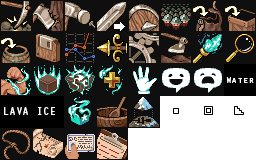
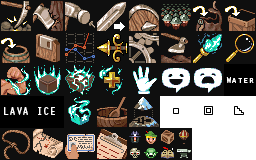
fix balloon port

Changed region(s): [[0.5, 0.7812, 0.75, 1.0]]

diff --git a/DwarfCorp/DwarfCorpXNA/World/Diplomacy.cs b/DwarfCorp/DwarfCorpXNA/World/Diplomacy.cs
@@ -329,17 +329,9 @@ namespace DwarfCorp
                     });
                 }
 
-                    foreach (CreatureAI creature in envoy.Creatures)
-                    {
-                       creature.Physics.AddChild(new ResourcePack(World.ComponentManager));
-                        if (natives.Economy == null)
-                        {
-                            natives.Economy = new Economy(natives, 1000.0m, World, new CompanyInformation()
-                            {
-                                Name = natives.Name
-                            });
-                        }
-
+                foreach (CreatureAI creature in envoy.Creatures)
+                {
+                    creature.Physics.AddChild(new ResourcePack(World.ComponentManager));
                     creature.Physics.AddChild(new Flag(World.ComponentManager, Vector3.Up * 0.5f + Vector3.Backward * 0.25f, natives.Economy.Company.Information));
                 }
             }
@@ -347,12 +339,30 @@ namespace DwarfCorp
             {
                 Body balloon = world.PlayerFaction.DispatchBalloon();
 
-                foreach (CreatureAI creature in creatures)
+                if (balloon != null)
                 {
-                    Matrix tf = creature.Physics.LocalTransform;
-                    tf.Translation = balloon.LocalTransform.Translation;
-                    creature.Physics.LocalTransform = tf;
+                    foreach (CreatureAI creature in creatures)
+                    {
+                        Matrix tf = creature.Physics.LocalTransform;
+                        tf.Translation = balloon.LocalTransform.Translation;
+                        creature.Physics.LocalTransform = tf;
+                    }
                 }
+                else
+                {
+                    if (natives.Economy == null)
+                    {
+                        natives.Economy = new Economy(natives, 1000.0m, World, new CompanyInformation()
+                        {
+                            Name = natives.Name
+                        });
+                    }
+
+                    foreach (CreatureAI creature in envoy.Creatures)
+                    {
+                        creature.Physics.AddChild(new ResourcePack(World.ComponentManager));
+                        creature.Physics.AddChild(new Flag(World.ComponentManager, Vector3.Up * 0.5f + Vector3.Backward * 0.25f, natives.Economy.Company.Information));
+                    }
             }
 
             foreach (CreatureAI creature in envoy.Creatures)

diff --git a/DwarfCorp/DwarfCorpXNA/GameStates/PlayState.cs b/DwarfCorp/DwarfCorpXNA/GameStates/PlayState.cs
@@ -828,11 +828,11 @@ namespace DwarfCorp.GameStates
 
                             new FramedIcon
                             {
-                               Icon = null,
+                               Icon  = new Gui.TileReference("tool-icons", 17),
                                Text = "@play-marks-icon-label",
                                Tooltip = "@play-marks-icon-tooltip",
                                TextHorizontalAlign = HorizontalAlign.Center,
-                               TextVerticalAlign = VerticalAlign.Center,
+                               TextVerticalAlign = VerticalAlign.Below,
                                EnabledTextColor = Vector4.One,
                                OnClick = (sender, args) =>
                                {
@@ -874,7 +874,7 @@ namespace DwarfCorp.GameStates
 
                             new FramedIcon
                             {
-                                Icon = new Gui.TileReference("tool-icons", 35),
+                                Icon = new Gui.TileReference("tool-icons", 37),
                                 Text = "@play-rooms-icon-label",
                                 Tooltip = "@play-rooms-icon-tooltip",
                                 TextHorizontalAlign = HorizontalAlign.Center,
@@ -938,10 +938,9 @@ namespace DwarfCorp.GameStates
                                 TextVerticalAlign = VerticalAlign.Below,
                                 Tooltip = StringLibrary.GetString("events-tooltip")
                             },
-#if DEBUG
                             new Gui.Widgets.FramedIcon()
                             {
-                                 Icon = new Gui.TileReference("tool-icons", 21),
+                                 Icon = new Gui.TileReference("tool-icons", 36),
                                 OnClick = (sender, args) =>
                                 {
                                     StateManager.PushState(new FactionViewState(GameState.Game, GameState.Game.StateManager, World));
@@ -950,7 +949,6 @@ namespace DwarfCorp.GameStates
                                 TextVerticalAlign = VerticalAlign.Below,
                                 Tooltip = "View diplomacy with other factions."
                             },
-#endif
                             EconomyIcon,
                                                                    
                             new Gui.Widgets.FramedIcon

diff --git a/DwarfCorp/DwarfCorpXNA/Scripting/Factions/Faction.cs b/DwarfCorp/DwarfCorpXNA/Scripting/Factions/Faction.cs
@@ -725,7 +725,7 @@ namespace DwarfCorp
 
         public void Hire(Applicant currentApplicant)
         {
-            List<Room> rooms = GetRooms().Where(room => room.RoomData.Name == "BalloonPort").ToList();
+            List<Room> rooms = GetRooms().Where(room => room.RoomData.Name == "Balloon Port").ToList();
 
             if (rooms.Count == 0)
             {
@@ -762,7 +762,7 @@ namespace DwarfCorp
 
         public Body DispatchBalloon()
         {
-            List<Room> rooms = GetRooms().Where(room => room.RoomData.Name == "BalloonPort").ToList();
+            List<Room> rooms = GetRooms().Where(room => room.RoomData.Name == "Balloon Port").ToList();
 
             if (rooms.Count == 0)
             {
